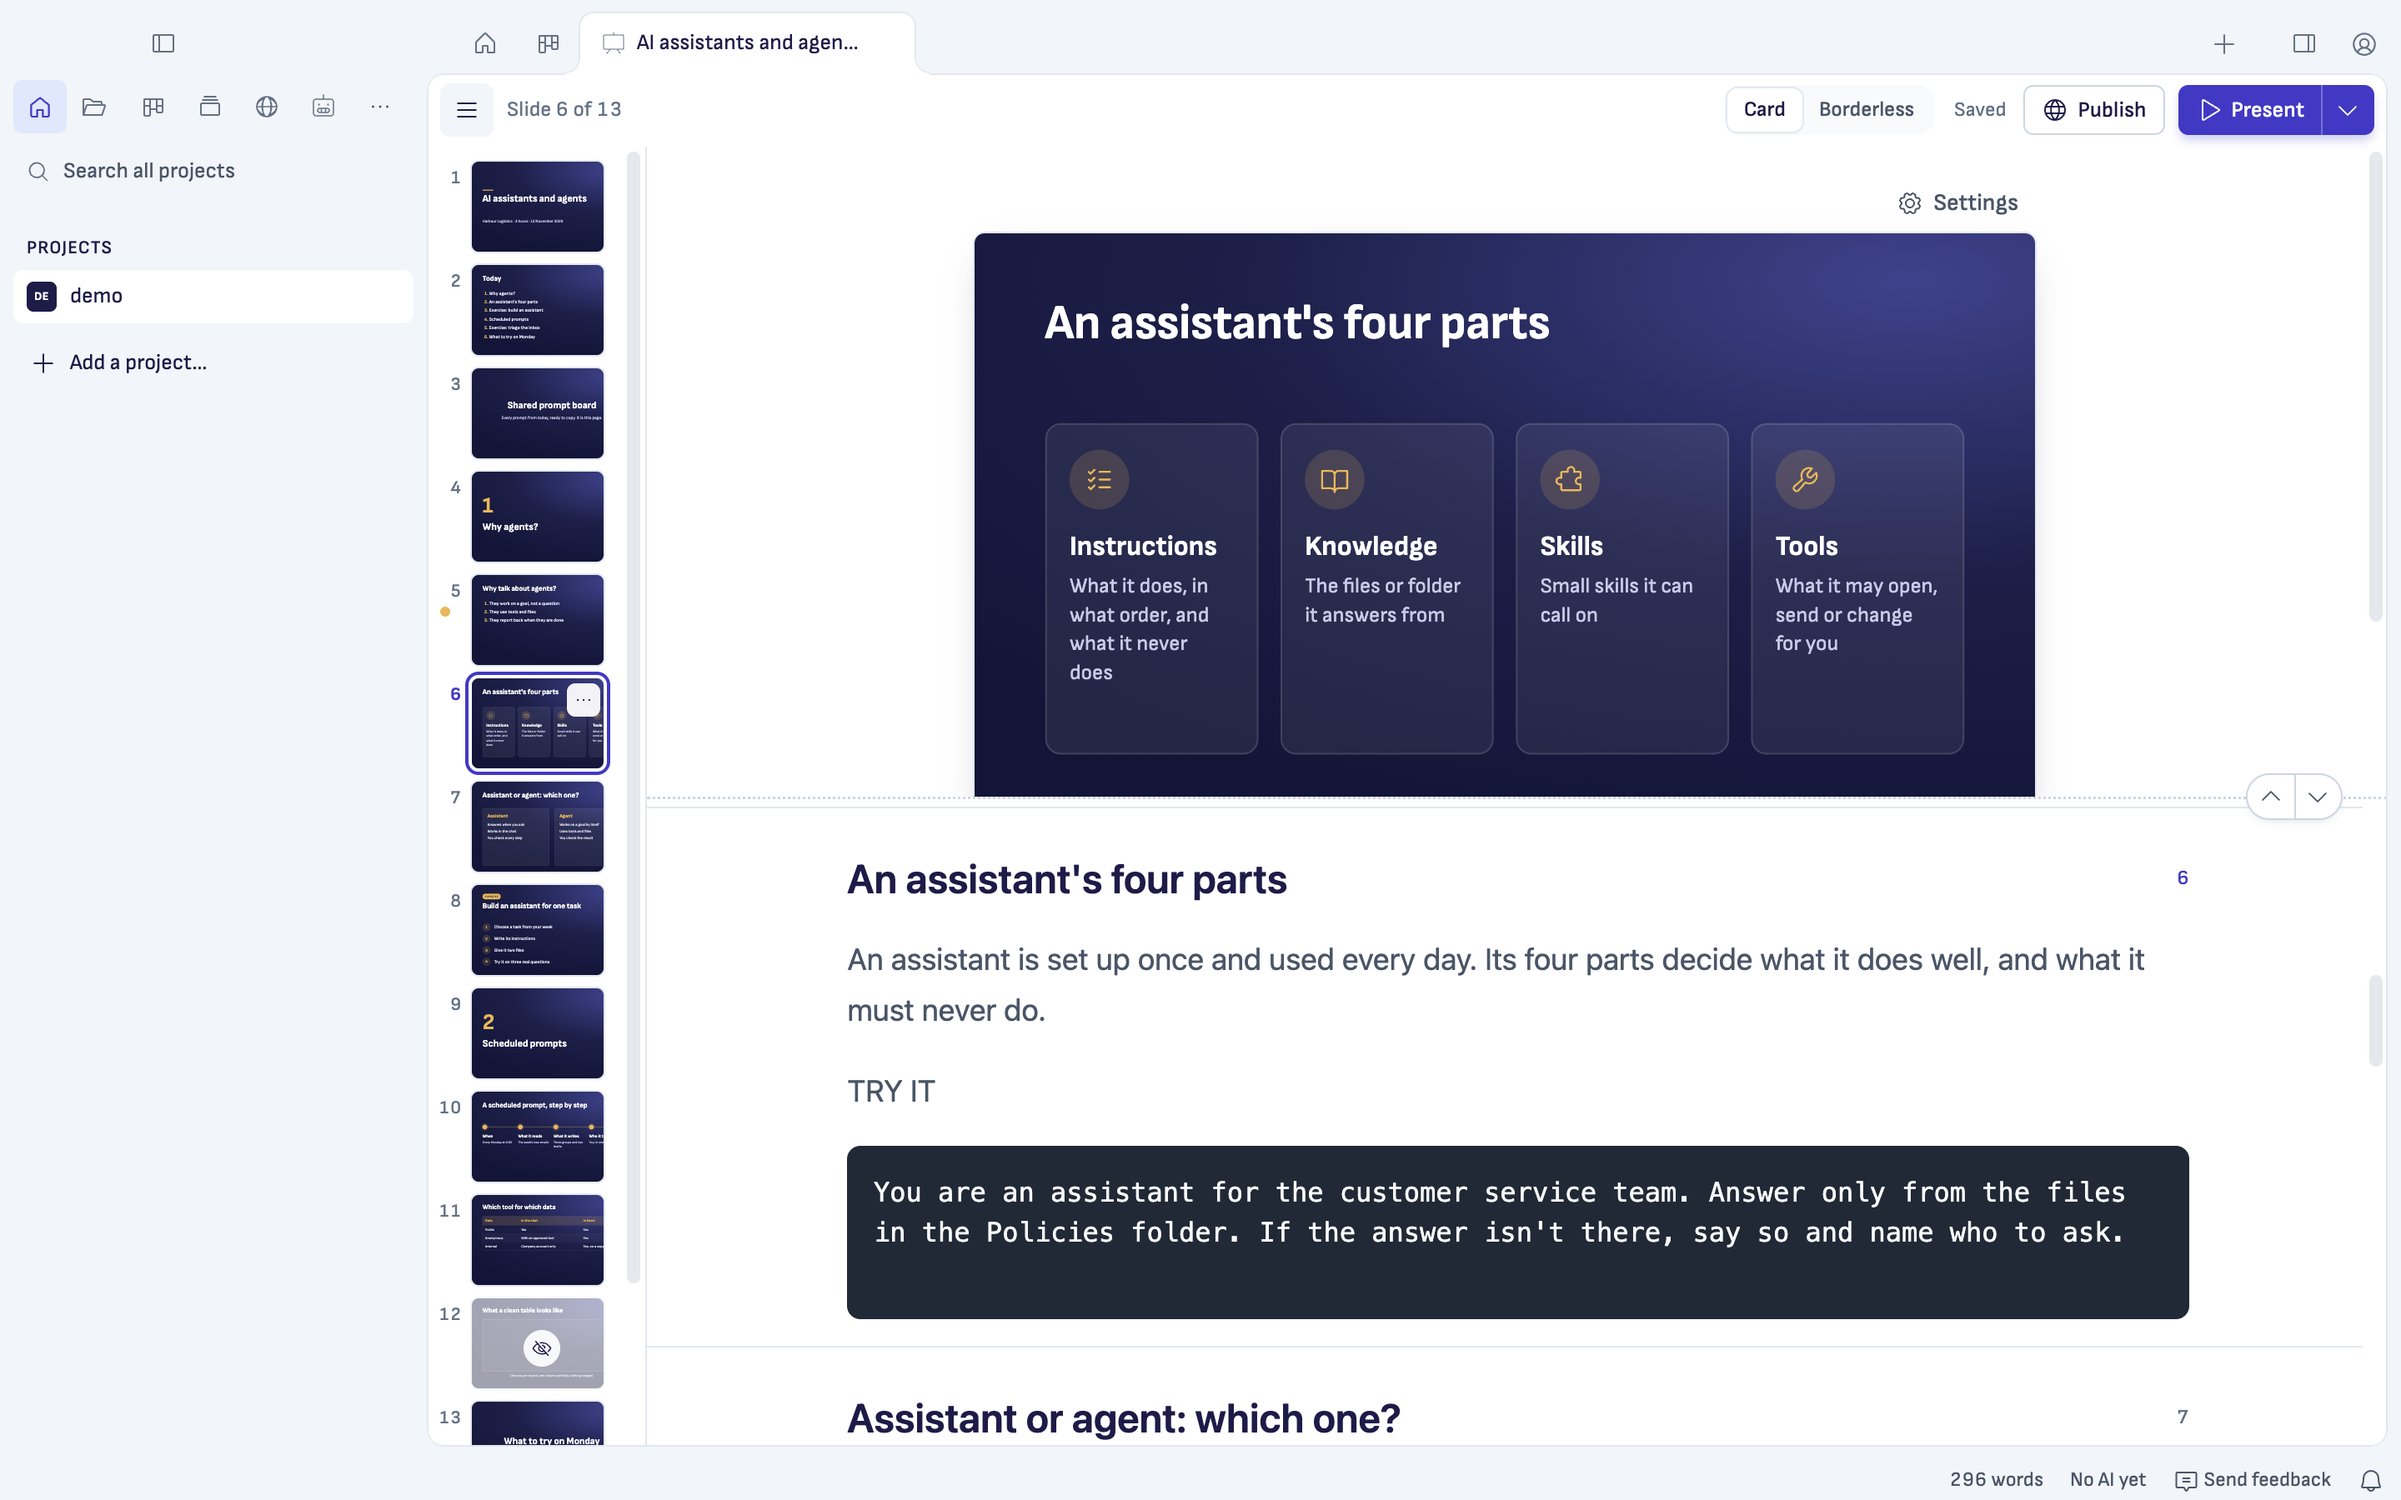
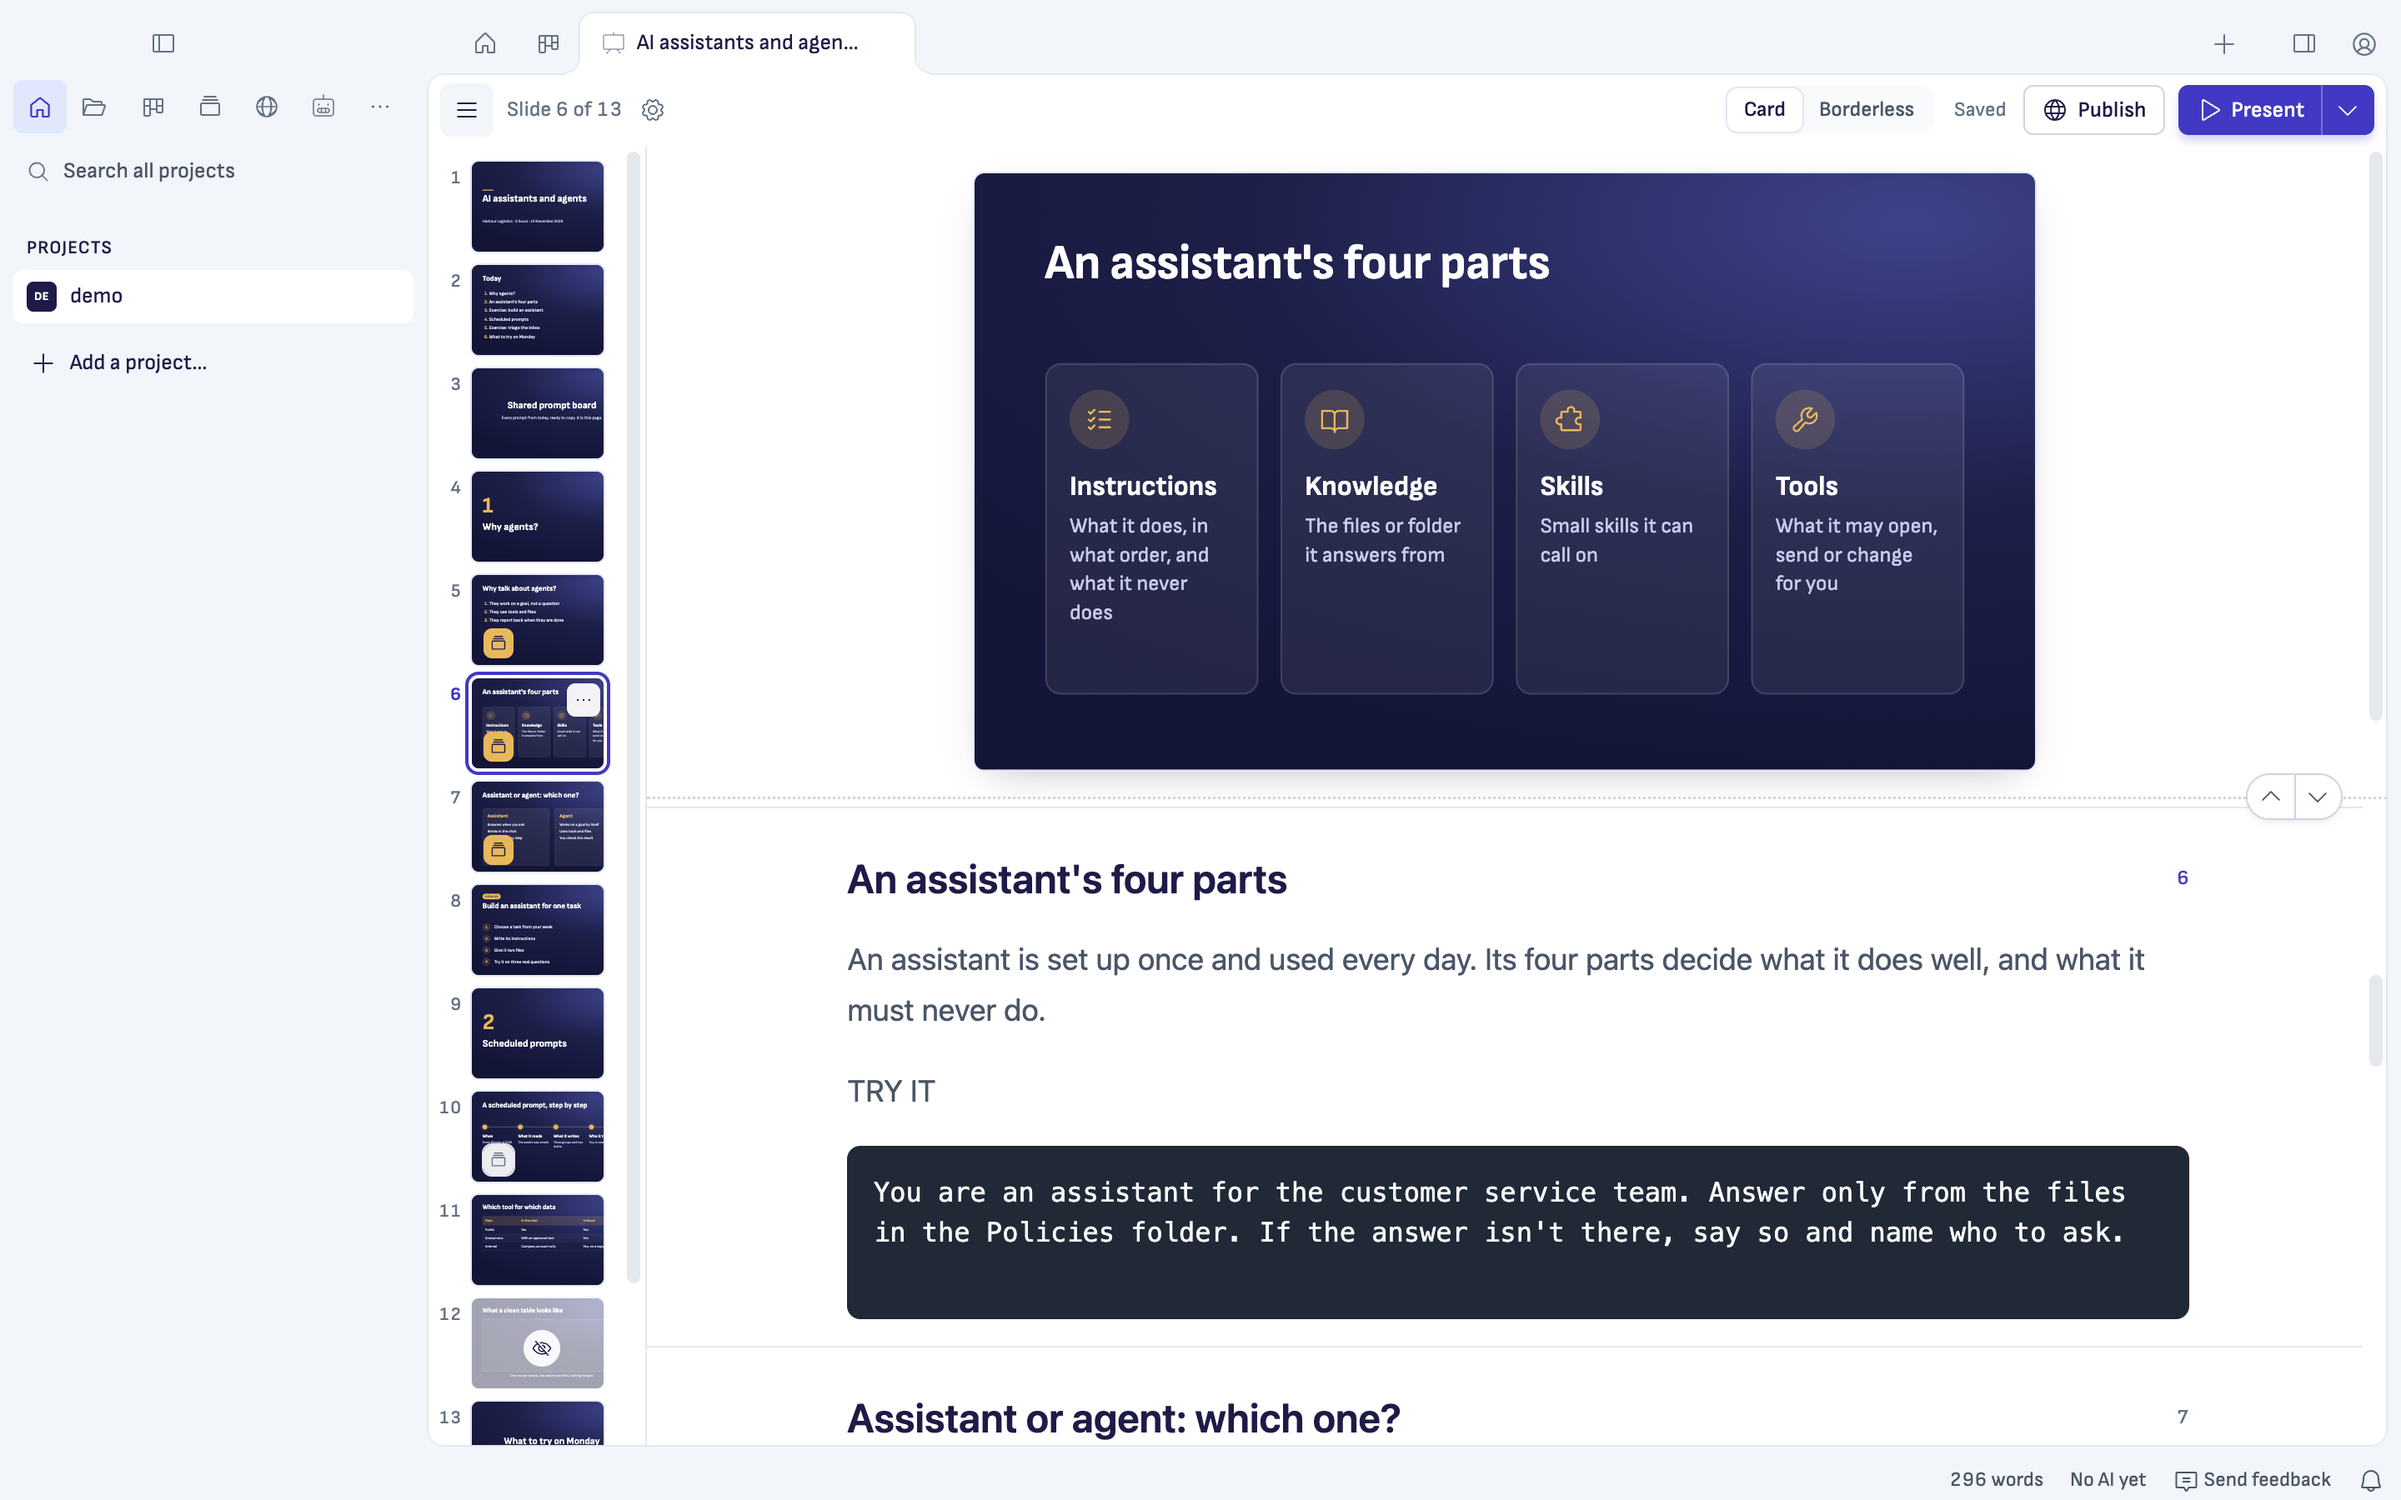
Decks: long-side proof retaken on the stage without rows (#759), with the line's share read across reloads

diff --git a/docs/development/releases/v2.3.0/sprint-159-decks-training/research/proof/layout-long-side/README.md b/docs/development/releases/v2.3.0/sprint-159-decks-training/research/proof/layout-long-side/README.md
@@ -4,32 +4,44 @@ A dev window of the `deck-layout-long-side` branch, on a copy of Sprint 157's de
 
 ## Shots for the Experience lead
 
+Retaken on 16 November at 22:05 after merging #759 (Slide settings in the deck's bar, the library line in its popup), in a second dev window with a fresh profile, so the stage above has no Settings row and no library line.
+
 | What | File |
 |---|---|
 | 1440 × 900, the left column and the AI column folded: beside | `beside-ai-folded-1440.png` |
-| 1440 × 900, the AI column open: above, the flat pill at the line's right end | `above-ai-open-1440.png` |
-| The same, with the rows around the slide hidden (a simulation of the popups PR): the slide 636 px | `above-ai-open-no-rows-sim-1440.png` |
-| 1440 × 900, the left column open: above | `above-left-open-1440.png` |
-| The same, rows hidden (simulation) | `above-left-open-no-rows-sim-1440.png` |
+| 1440 × 900, the AI column open: above, the slide 636 × 358, the flat pill at the line's right end | `above-ai-open-1440.png` |
+| 1440 × 900, the left column open: above, the slide 636 | `above-left-open-1440.png` |
 | A 1920 × 1080 window with the AI column open: beside | `beside-ai-open-1920.png` |
-| The flat pill at the line's right end, close up (from the simulation shot) | `flat-pill-closeup.png` |
-| Above, the slide hidden: ˅ "Show the slide" at the handout's top left | `above-slide-hidden-1440.png` |
+| The flat pill at the line's right end, close up | `flat-pill-closeup.png` |
 | Above, the handout hidden: the full slide, ˄ "Show the handout" at its bottom right | `above-handout-hidden-1440.png` |
+| Above, the slide hidden: ˅ "Show the slide" at the handout's top left (first run) | `above-slide-hidden-1440.png` |
 
-The "Settings" row above the slide and the lines under it leave the stage in the popups PR (`fix-popups-close-outside`), so this branch sizes the slide above for a stage with no rows: its pane's height less 32. On this branch alone those rows are still there, so in the non-simulated "above" shots the slide's bottom runs under the line and the slide's pane scrolls. The simulation shots hid `.deck-sethead` and `.deck-under` with a style in the deck webview, nothing else.
+**The slide above is the pane's height less 32, at 16:9:** a pane of 390 gives a slide 636 × 358, with 16 above it. **One row is still under it: "Speaker notes".** It isn't part of #759 (the experience's "Notes are comments" removes it later), so the stage above is 48 px taller than its pane, the notes row sits under the level line and the slide's pane shows a scrollbar at its right. The slide itself is whole.
 
 ## What the window showed
 
-- **Measured sizes** (CSS px): AI folded, both columns folded: room 1,292, beside, slide 469 wide. AI open: room 900, above, the line at 390 of 780, slide 636 × 358. Left column open: room 1,044, above, slide 636. 1920 × 1080, AI open: room 1,380, beside.
+- **Measured sizes** (CSS px, second run): AI and left column folded: room 1,292, beside, slide 469 wide, centred in its pane's height. AI open: room 900, above, the line at 390 of 780, slide 636 × 358 at 16 from the top. Left column open: room 1,044, above, slide 636. 1920 × 1080, AI open: room 1,380, beside, slide 504.
 - **The boundary, swept by window width** (both columns folded, strip shown): beside down to a room of 1,100, above at 1,099; growing again it stayed above through 1,123 and went beside at 1,124. Each crossing moved the slide once.
 - **The level line drags** and keeps its own share: dragged back to half after a reload, it stayed through the AI and left columns opening and folding, and the beside share stayed as it was.
 - **The fold:** Hide the handout left the full slide with ˄ "Show the handout" at the bottom right, focus on it; Space on that button brought the handout back. Hide the slide left the handout's centred column with ˅ "Show the slide" at its top left. After Developer: Reload Window the hidden slide stayed hidden (view state).
 - **Keys with the handout hidden**, focus on the page: ↓ Space PageDown went forward, PageUp ↑ ← back, → forward, End to 13, Home to 1. ⌘↓, ⇧Space and ⌥→ did nothing. With the caret in a slide's title, ↓ → ↑ End Home PageDown left the slide where it was. With the focus on the fold's button, the arrows moved the slide and Space pressed the button.
 - **The wheel with the handout hidden** (wheel events dispatched on the slide in the webview, since the window was behind others and the browser throttled its timers): one 120 px notch moved one slide, and its default was prevented; a 60-event flick 16 ms apart moved one; 30 px in all moved none; three 80 px turns 450 ms apart moved three; two lines (80 px) moved one; a sideways swipe did nothing. With the handout shown, a wheel on the slide moved nothing and was not prevented.
-- **Opening a deck writes nothing:** every `.deck.md` in the project had the same SHA-256 before the launch and after the checks. (One space typed into a title by the key check was undone with ⌘Z before the file was compared.)
+- **Opening a deck writes nothing:** every `.deck.md` in the project had the same SHA-256 before the launch and after the checks. The second run's project, the same. (One space typed into a title by the key check was undone with ⌘Z before the file was compared.)
+
+## The level line's share, read in a fresh profile (second run)
+
+The share is read from the line's place (line ÷ the desk's height), since the webview's kept state can't be read from outside it.
+
+| When | Orientation | Line / height | Share |
+|---|---|---|---|
+| After the first reload with the deck open | above | 390 / 780 | 0.500 |
+| After the second reload | above | 390 / 780 | 0.500 |
+| After the first run's command sequence replayed twice (pick, move off-screen, shot, AI and left column toggled through the palette) and a third reload | above | 390 / 780 | 0.500 |
+
+The 69 % line seen once in the first run did not appear. No drag was made in the second run.
 
 ## Seen, not from this change
 
 - The window was behind other windows the whole time: the webview reported `visibilityState` hidden, its renders came late and its timers were throttled. `Page.bringToFront` was sent before each shot.
-- Once, after several palette commands, the level line was found at 69 % with no drag of ours in the log, and it was kept across a reload. It was not reproduced: a deliberate drag, panel toggles and reloads afterwards all behaved. Left as unexplained.
+- Once, in the first run, after several palette commands, the level line was found at 69 % with no drag of ours in the log, and it was kept across a reload. The share is written only when a drag on the line ends (`keepAboveRatio` in the drag's `up`), so a pointer press on the line must have reached the deck. It was not reproduced: in the first run a deliberate drag, panel toggles and reloads afterwards all behaved, and in the second run (fresh profile) three reloads and the replayed sequence read 0.500 each time. Left as unexplained.
 - Changing the handout's width (a column opening or folding) reflows its text without scrolling the part being read back to the top, as it does today beside; the current slide can then move on by the scroll rule.
